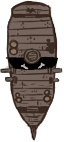
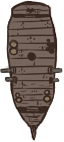
Added animated sprites, need to add in functionality to ensure they are in the right place and not the center of the object. Matrix transformations are the way to go for this I think.

Changed region(s): [[0.0938, 0.338, 0.9062, 0.507]]

diff --git a/MiniPirates/Engine/Objects/Components/AnimatedSpriteRenderer.cs b/MiniPirates/Engine/Objects/Components/AnimatedSpriteRenderer.cs
@@ -1,0 +1,116 @@
+using Microsoft.Xna.Framework;
+using Microsoft.Xna.Framework.Graphics;
+using C3.MonoGame;
+using System;
+using System.Collections.Generic;
+using System.Linq;
+using System.Text;
+
+namespace MiniPirates.Engine.Objects.Components
+{
+    public class AnimatedSpriteRenderer : DrawableComponent
+    {
+        Texture2D spriteSheet;
+        public Texture2D SpriteSheet
+        {
+            get
+            {
+                return spriteSheet;
+            }
+
+            set
+            {
+                spriteSheet = value;
+            }
+        }
+
+        Rectangle spriteSize;
+        public Rectangle SpriteSize
+        {
+            get
+            {
+                return spriteSize;
+            }
+
+            set
+            {
+                spriteSize = value;
+                activeFrame = value;
+                centerOfSprite = new Vector2(value.Width / 2, value.Height / 2);
+            }
+        }
+
+        Rectangle activeFrame;
+        Vector2 centerOfSprite;
+
+        int timePerFrame;
+        public int TimePerFrame
+        {
+            get
+            {
+                return timePerFrame;
+            }
+
+            set
+            {
+                timePerFrame = value;
+            }
+        }
+
+        int numFrames;
+        public int NumFrames
+        {
+            get
+            {
+                return numFrames;
+            }
+
+            set
+            {
+                numFrames = value;
+            }
+        }
+
+        int currentFrame;
+        int elapsedTimeOnCurrentFrame;
+
+        Transform objectTransform;
+        Transform cameraTransform;
+
+        public override void Initialize()
+        {
+            currentFrame = 0;
+            elapsedTimeOnCurrentFrame = 0;
+            Transform t = gameObject.GetComponent<Transform>();
+            if (null != t)
+            {
+                objectTransform = t;
+            }
+            base.Initialize();
+        }
+
+        public void InitializeValues(GameObject camera)
+        {
+            cameraTransform = camera.GetComponent<Transform>();
+        }
+
+        public override void Update(GameTime gameTime)
+        {
+            elapsedTimeOnCurrentFrame += gameTime.ElapsedGameTime.Milliseconds;
+            if(elapsedTimeOnCurrentFrame >= timePerFrame)
+            {
+                elapsedTimeOnCurrentFrame = 0;
+                currentFrame = (currentFrame + 1) % NumFrames;
+                activeFrame = new Rectangle(spriteSize.X + spriteSize.Width * currentFrame, spriteSize.Y, spriteSize.Width, spriteSize.Height);
+            }
+            base.Update(gameTime);
+        }
+
+        public override void Draw(SpriteBatch spriteBatch)
+        {
+            spriteBatch.Draw(spriteSheet, objectTransform.Position - cameraTransform.Position, activeFrame, Color.White, objectTransform.Rotation, centerOfSprite, objectTransform.Scale, SpriteEffects.None, objectTransform.Layer);
+
+            base.Draw(spriteBatch);
+        }
+    }
+}

diff --git a/MiniPirates/Gameplay/Screens/GameScreen.cs b/MiniPirates/Gameplay/Screens/GameScreen.cs
@@ -19,6 +19,8 @@ namespace MiniPirates.Gameplay.Screens
         Texture2D boulder;
         Texture2D cannonOutline;
         Texture2D cannonFilled;
+
+        Texture2D animatedSpriteSheetTest;
         #endregion
 
         PauseScreen pauseScreen;
@@ -49,6 +51,12 @@ namespace MiniPirates.Gameplay.Screens
             world.AddGameObject(playerShip);
             playerShip.AddNewComponent<Player>();
             playerShip.InitializeValues();
+
+            AnimatedSpriteRenderer playerAnim = playerShip.AddNewComponent<AnimatedSpriteRenderer>();
+            playerAnim.SpriteSheet = animatedSpriteSheetTest;
+            playerAnim.SpriteSize = new Rectangle(0, 0, 70, 29);
+            playerAnim.TimePerFrame = 150;
+            playerAnim.NumFrames = 4;
 
             fp.InitializeValues(playerShip);
 
@@ -84,6 +92,8 @@ namespace MiniPirates.Gameplay.Screens
             collBoulder2.InitializeValues(world.Camera);
             collEnemy.InitializeValues(world.Camera);
 
+            playerAnim.InitializeValues(world.Camera);
+
             world.collisionManager.AddStaticCollider(collBoulder);
             world.collisionManager.AddStaticCollider(collBoulder2);
             world.collisionManager.AddDynamicCollider(collEnemy);
@@ -103,6 +113,7 @@ namespace MiniPirates.Gameplay.Screens
             boulder = ScreenManager.gameReference.Content.Load<Texture2D>("boulder");
             cannonOutline = ScreenManager.gameReference.Content.Load<Texture2D>("cannonOutline");
             cannonFilled = ScreenManager.gameReference.Content.Load<Texture2D>("cannonFilled");
+            animatedSpriteSheetTest = ScreenManager.gameReference.Content.Load<Texture2D>("sail_spritesheet_dark");
 
             pauseScreen.LoadContent();
             base.LoadContent();
